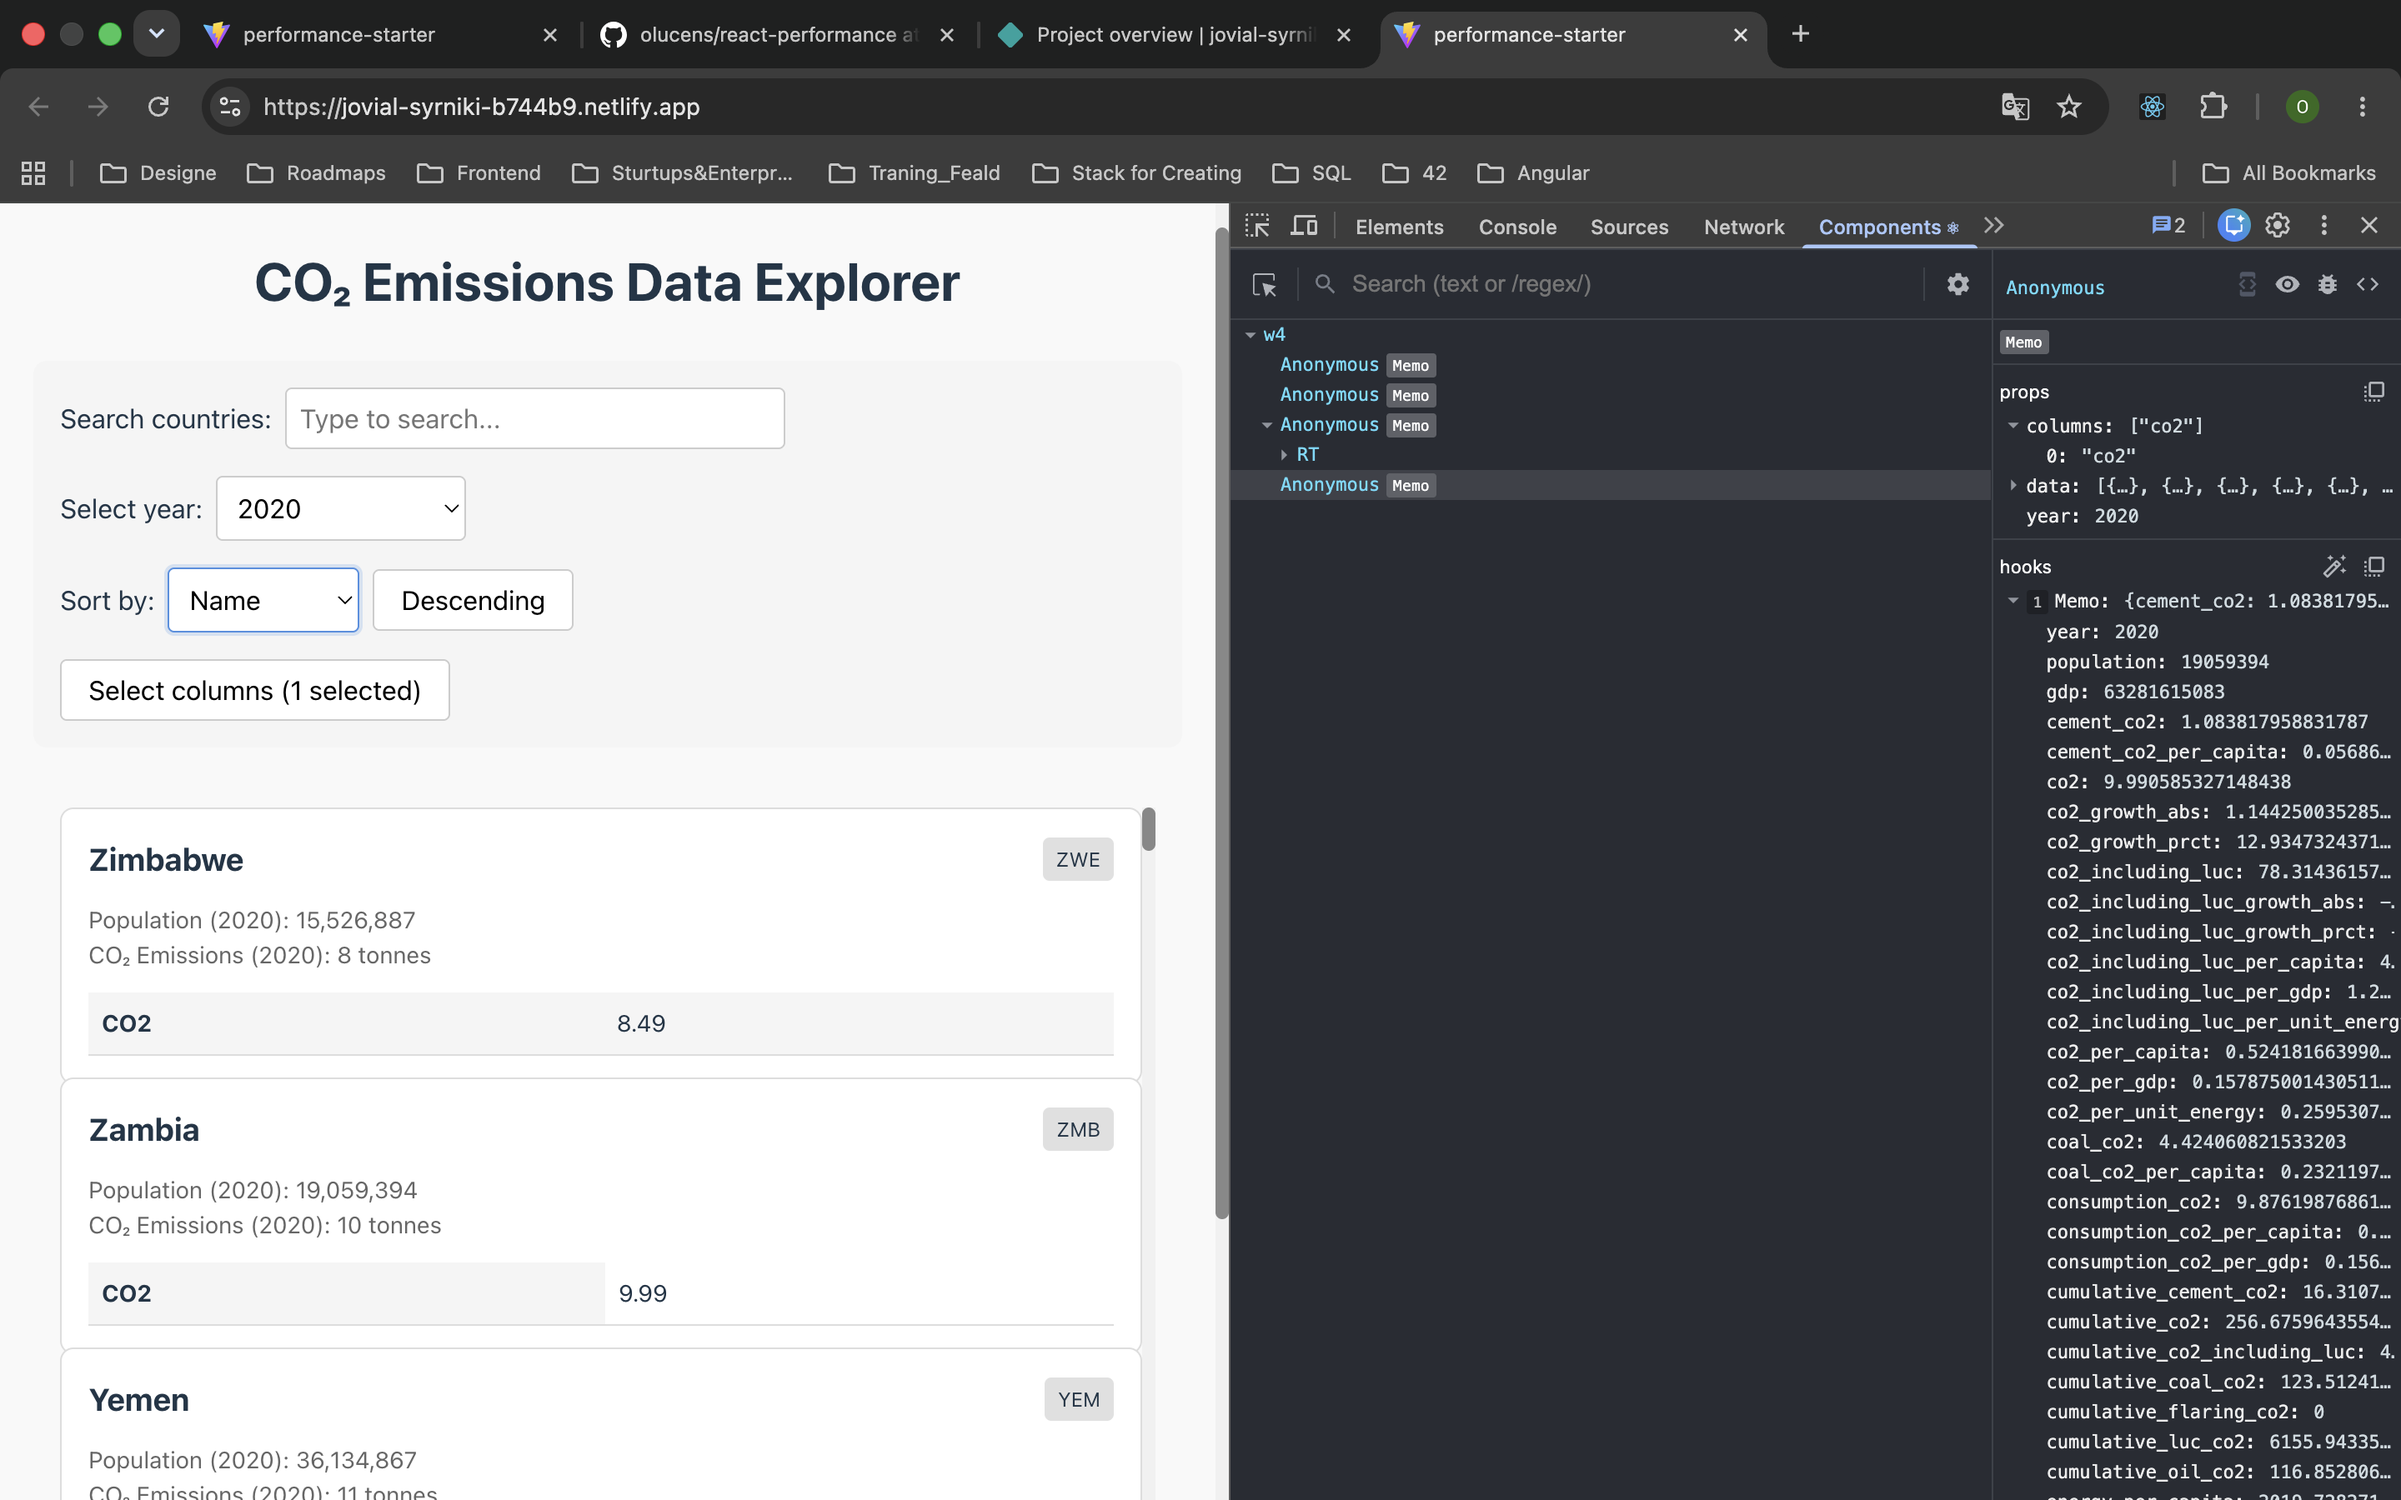
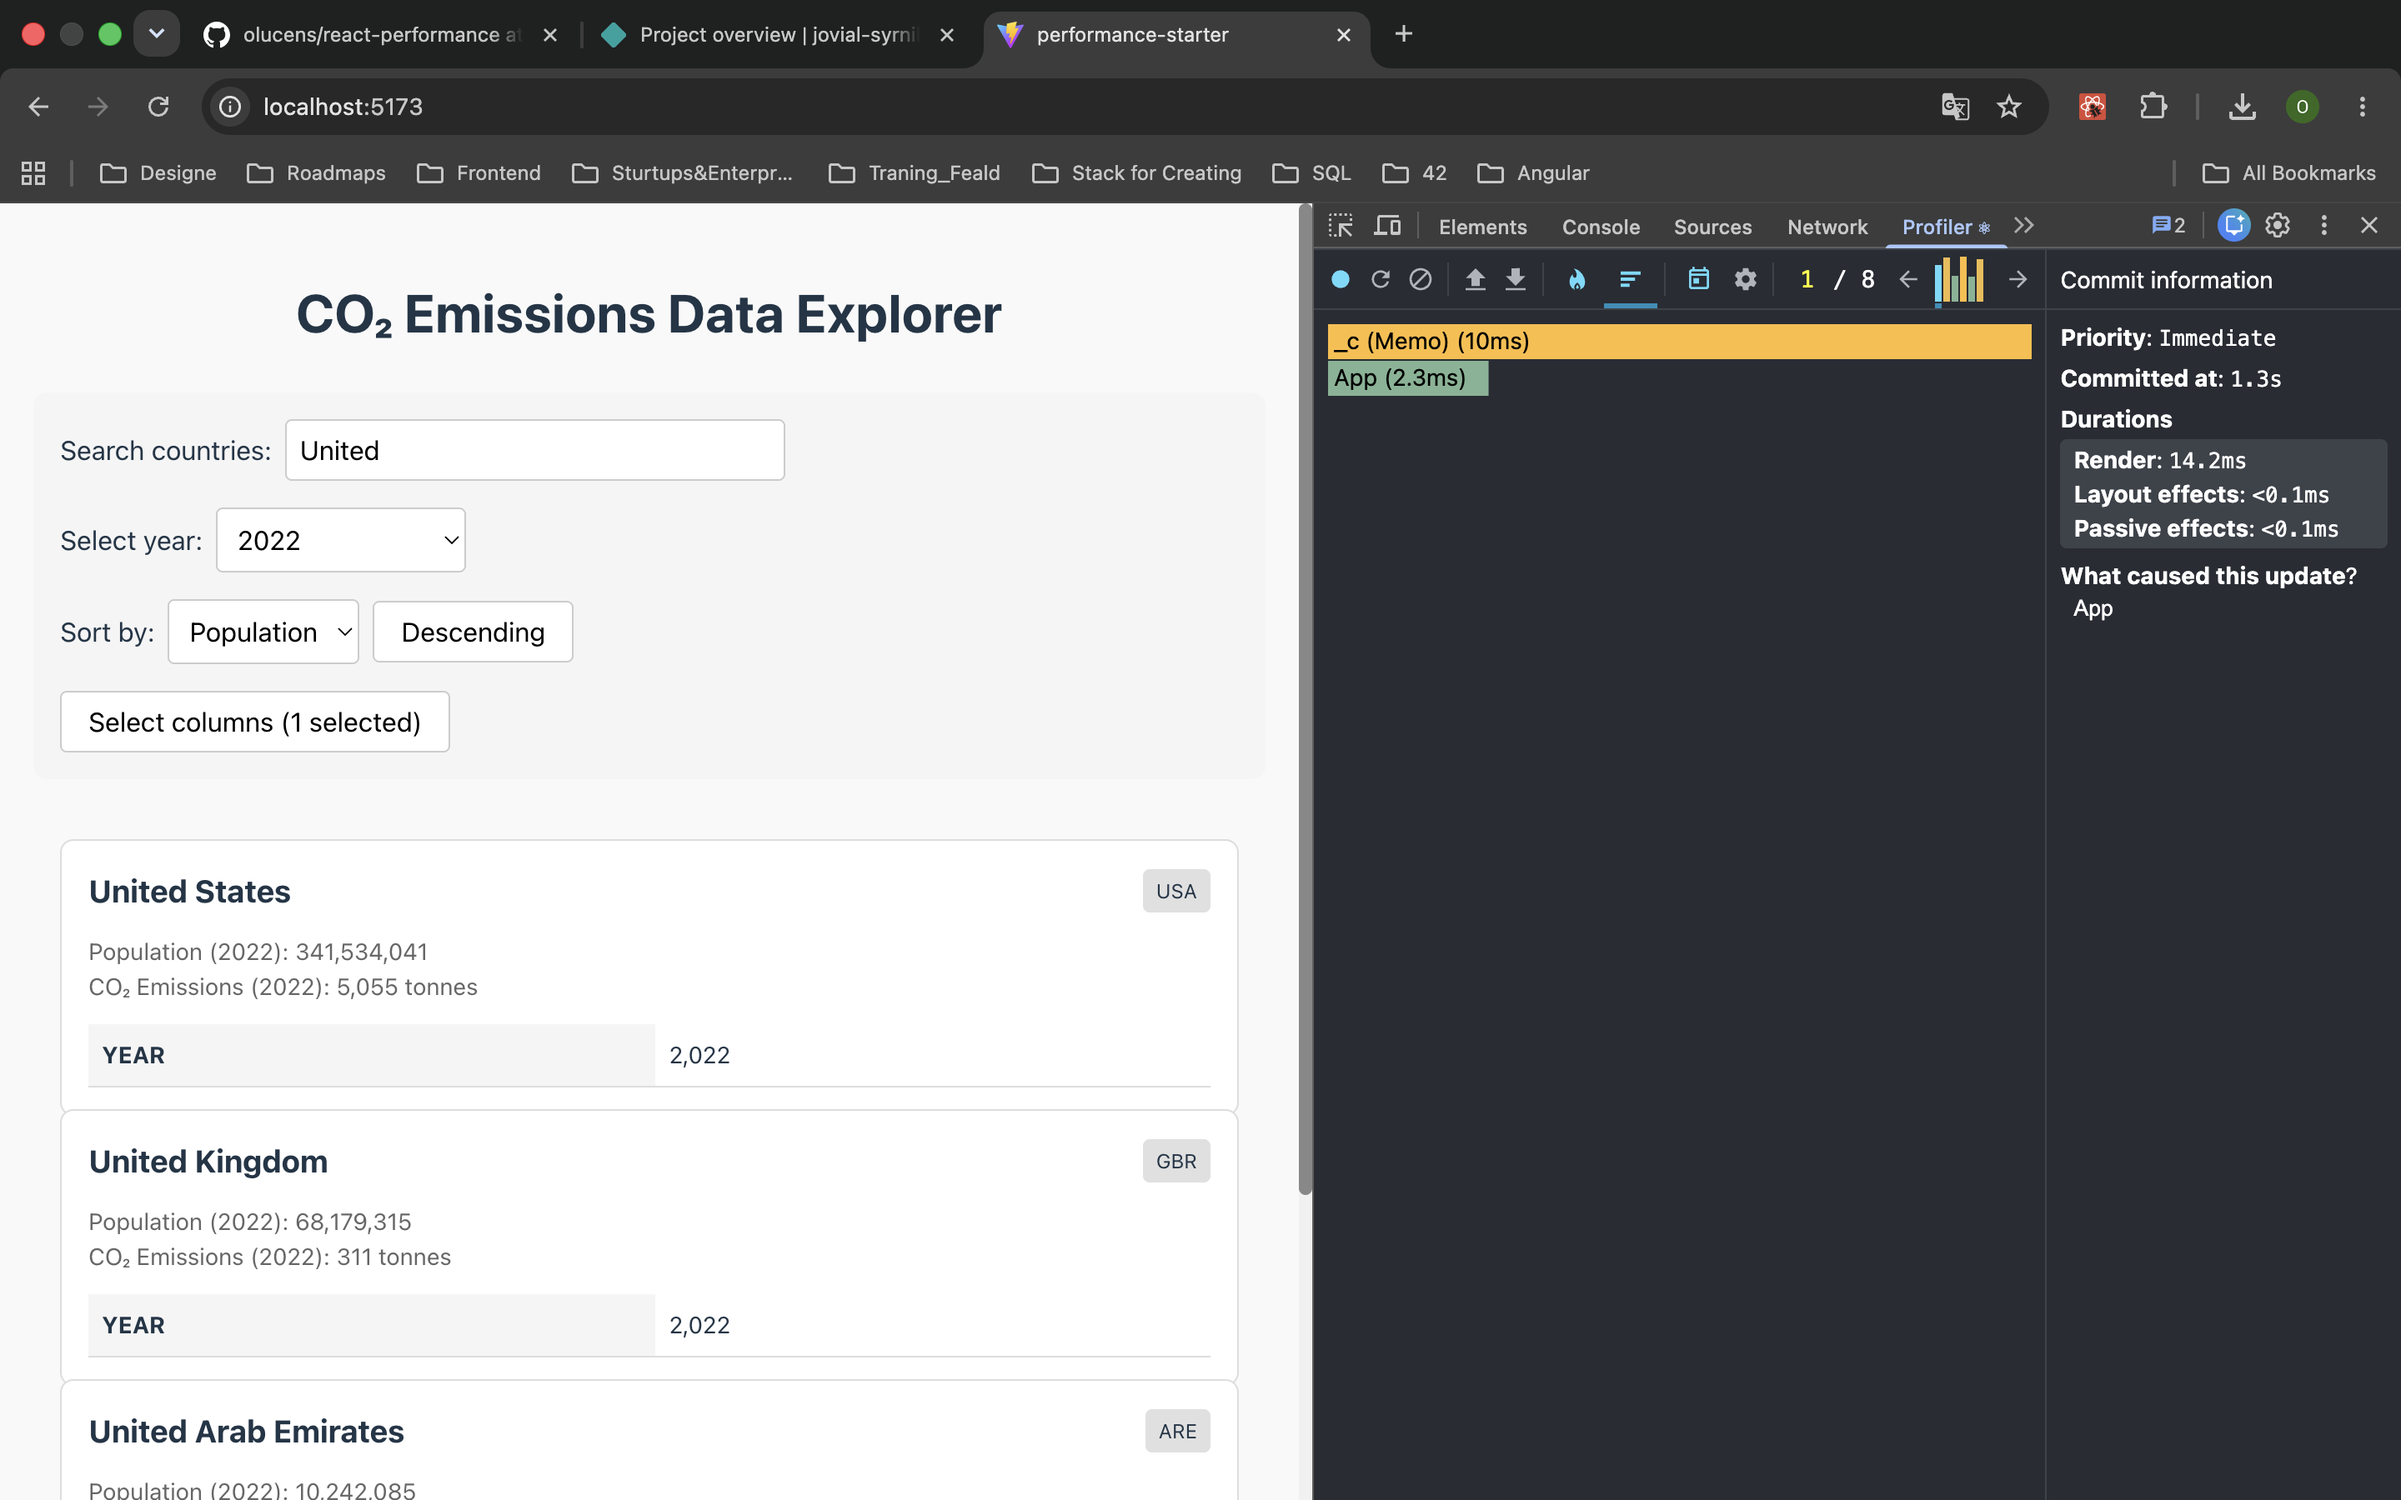
chor: continue on notes and screenshots

diff --git a/PERFORMANCE.md b/PERFORMANCE.md
@@ -49,20 +49,20 @@ measuring the impact of React optimization techniques.
 
 ### Interaction B: Search countries (type "United")
 
-- **Commit duration**: \_\_\_ ms
-- **Render duration**: \_\_\_ ms
+- **Commit duration**: 1,7 s
+- **Render duration**: 48,5 ms
 - **Screenshot**: ![baseline search](./screenshots/baseline/search.png)
 
 ### Interaction C: Change year
 
-- **Commit duration**: \_\_\_ ms
-- **Render duration**: \_\_\_ ms
+- **Commit duration**: 2,7 s
+- **Render duration**: 25,9 ms
 - **Screenshot**: ![baseline year](./screenshots/baseline/year.png)
 
 ### Interaction D: Toggle column
 
-- **Commit duration**: \_\_\_ ms
-- **Render duration**: \_\_\_ ms
+- **Commit duration**: 1,1 s
+- **Render duration**: 54,1 ms
 - **Screenshot**: ![baseline column](./screenshots/baseline/column.png)
 
 ### Baseline bottlenecks observed
@@ -86,26 +86,26 @@ on every keystroke / sort / year change. Expected findings in the flame chart:
 
 ### Interaction A: Sort countries
 
-- **Commit duration**: \_\_\_ ms
-- **Render duration**: \_\_\_ ms
+- **Commit duration**: 1,3 s
+- **Render duration**: 15,9 ms
 - **Screenshot**: ![optimized sort](./screenshots/optimized/sort.png)
 
 ### Interaction B: Search countries (type "United")
 
-- **Commit duration**: \_\_\_ ms
-- **Render duration**: \_\_\_ ms
+- **Commit duration**: 2,1 s
+- **Render duration**: 34,8 ms
 - **Screenshot**: ![optimized search](./screenshots/optimized/search.png)
 
 ### Interaction C: Change year
 
-- **Commit duration**: \_\_\_ ms
-- **Render duration**: \_\_\_ ms
+- **Commit duration**: 2,5 s
+- **Render duration**: 37 ms
 - **Screenshot**: ![optimized year](./screenshots/optimized/year.png)
 
 ### Interaction D: Toggle column
 
-- **Commit duration**: \_\_\_ ms
-- **Render duration**: \_\_\_ ms
+- **Commit duration**: 1,3 s
+- **Render duration**: 14,2 ms
 - **Screenshot**: ![optimized column](./screenshots/optimized/column.png)
 
 ---
